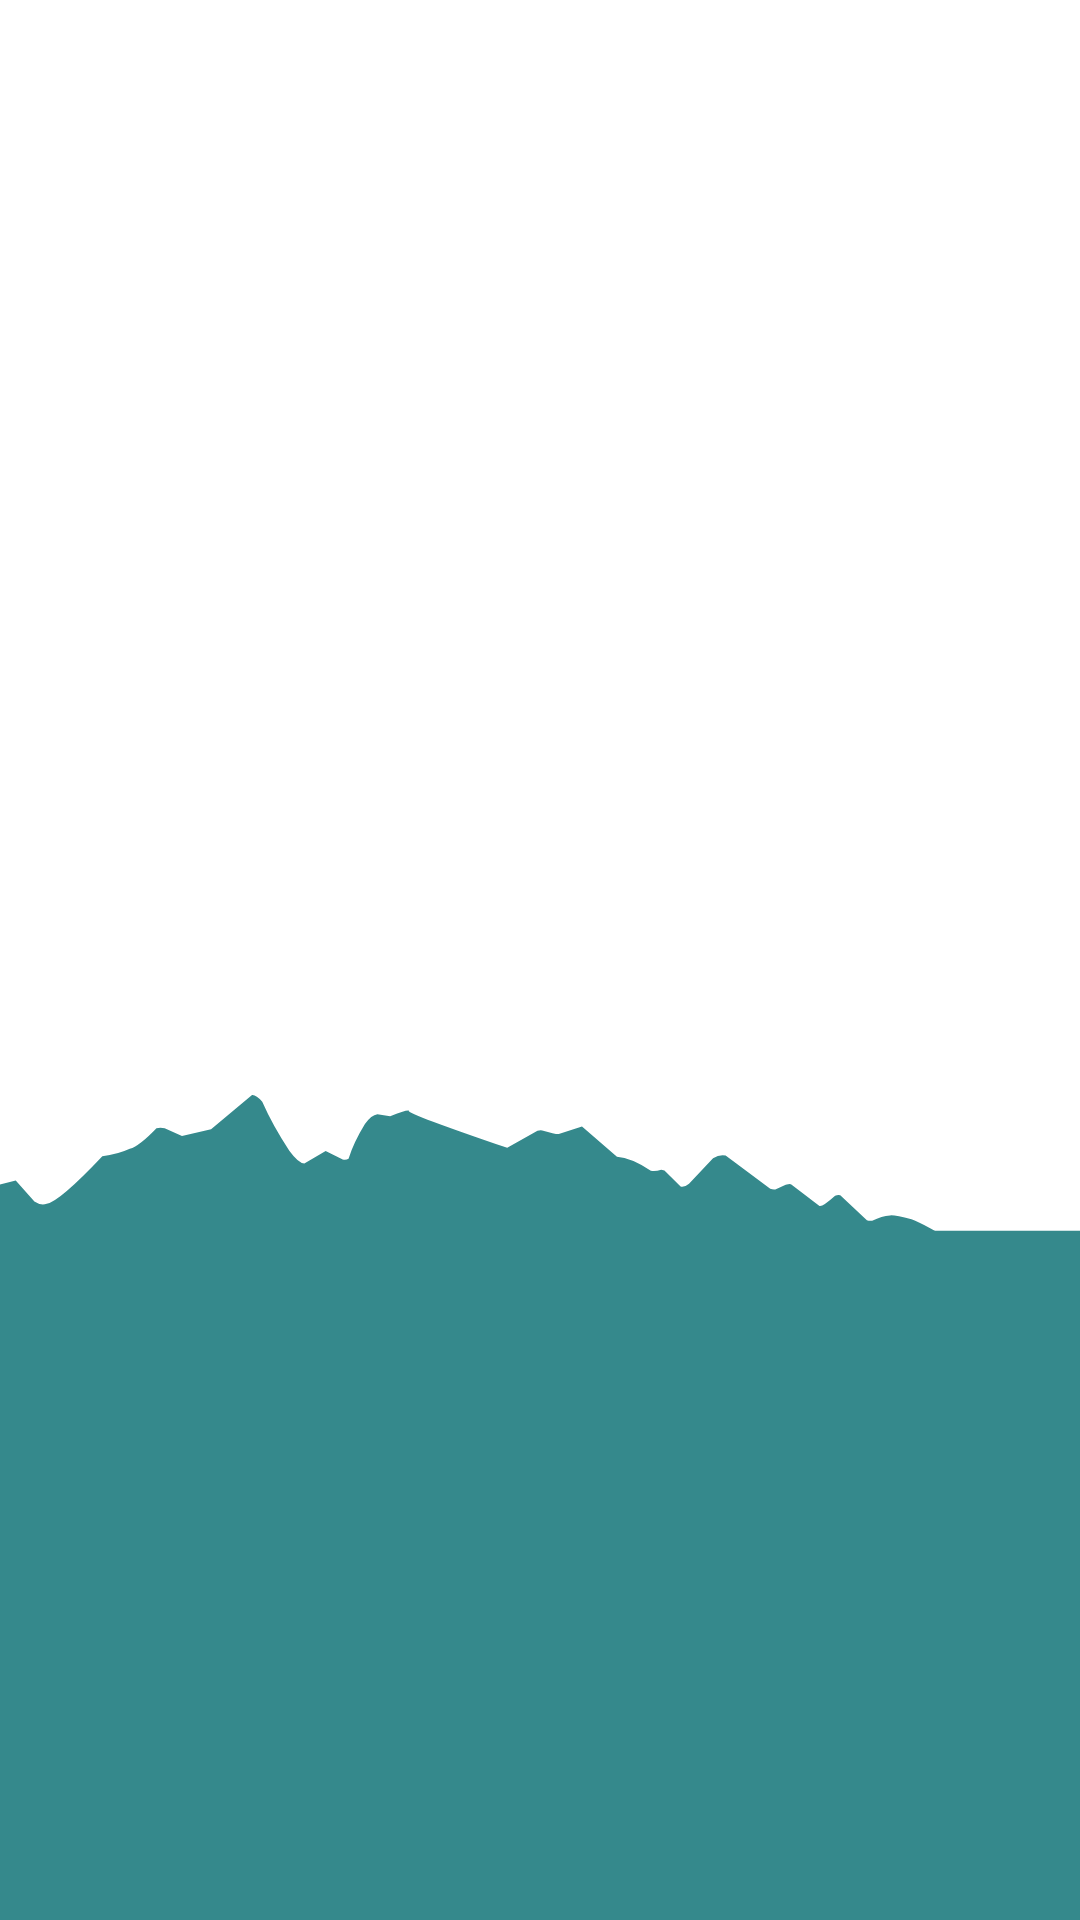
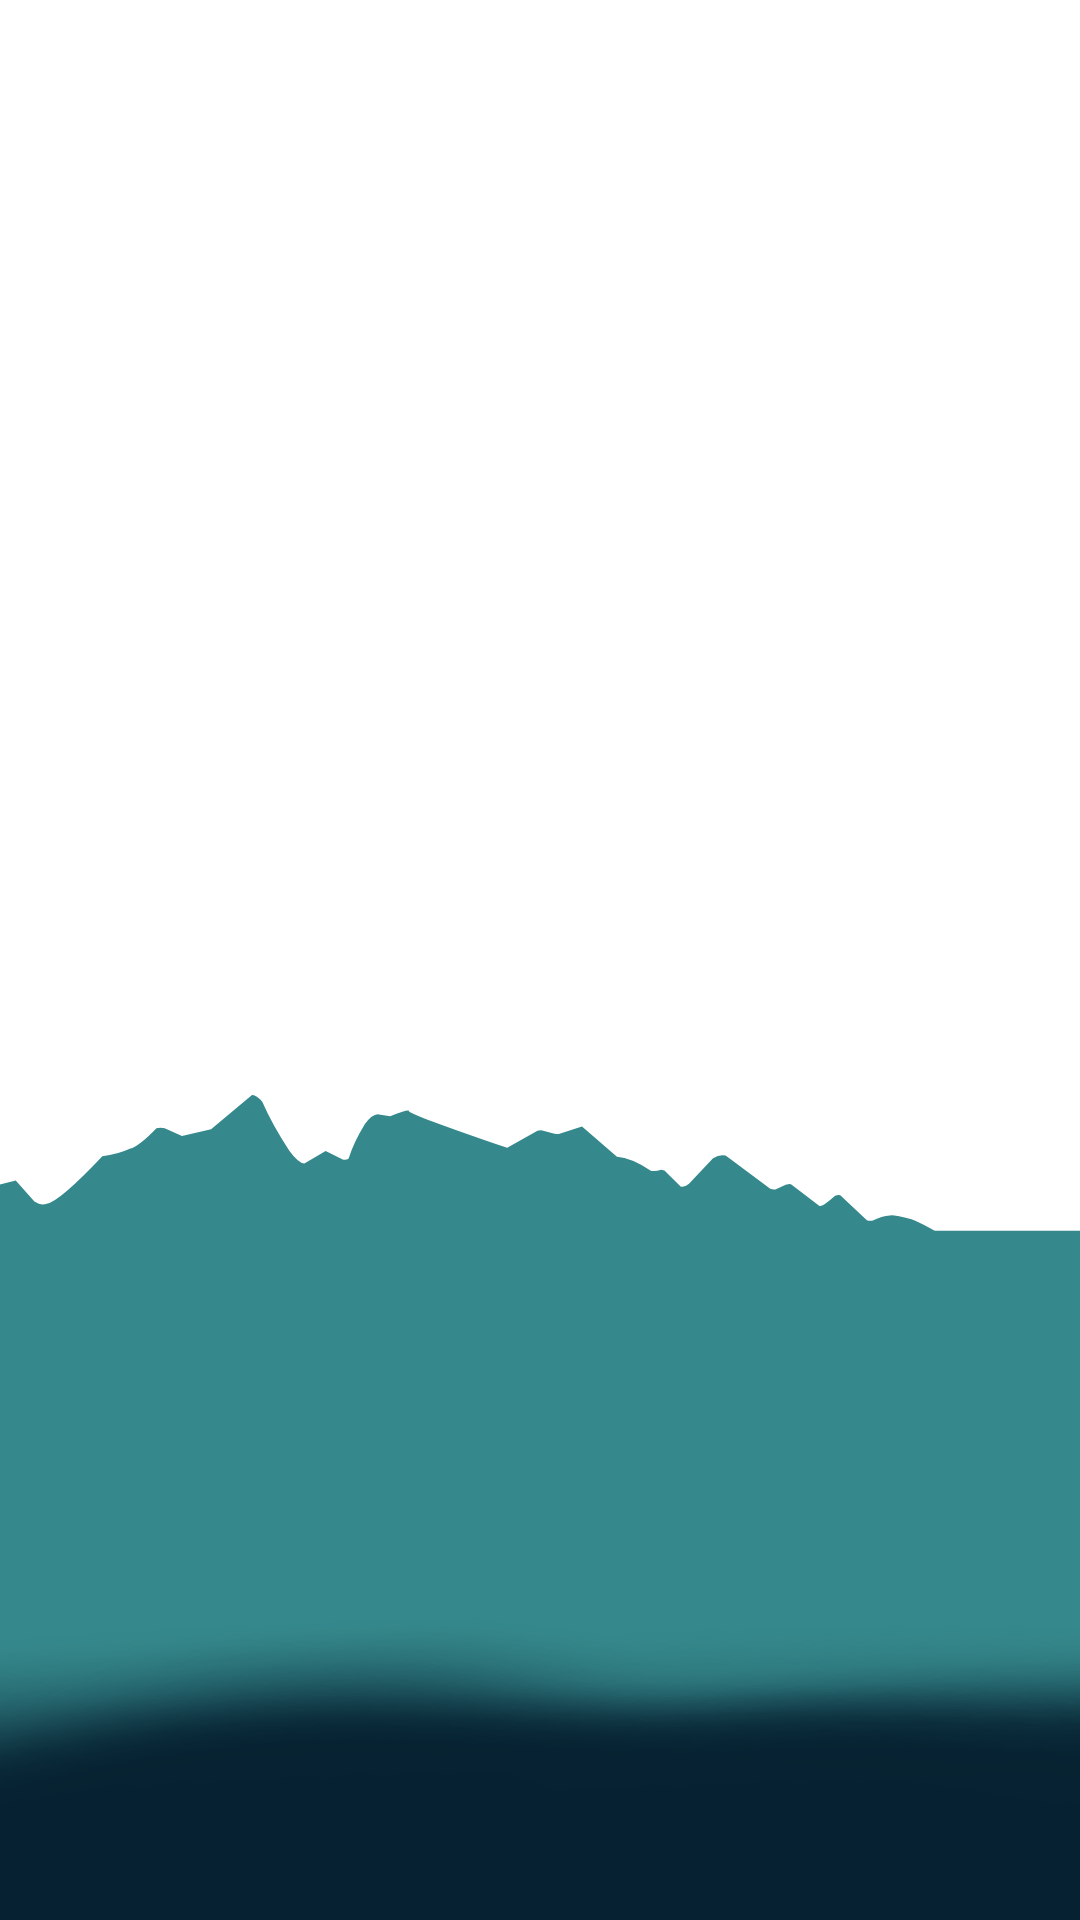
snow effect

Changed region(s): [[0.0, 0.8438, 1.0, 1.0]]

diff --git a/components/event/event-registration-form.tsx b/components/event/event-registration-form.tsx
@@ -10,8 +10,7 @@ import { Textarea } from "@/components/ui/textarea"
 import { Checkbox } from "@/components/ui/checkbox"
 import { Button } from "@/components/ui/button"
 import { Alert, AlertDescription } from "@/components/ui/alert"
-import { formatWon } from '@/lib/utils'
-import { cn } from '@/lib/utils'
+import { formatWon, cn } from "@/lib/utils"
 import { Badge } from "@/components/ui/badge"
 
 // Simple spinner component
@@ -28,7 +27,6 @@ function Spinner() {
 
 interface PesertaData {
   name: string
-  email: string
   phone: string
   address: string
   ukuranBaju: string
@@ -44,7 +42,6 @@ interface FormData {
 
 const initialPesertaData: PesertaData = {
   name: "",
-  email: "",
   phone: "",
   address: "",
   ukuranBaju: "",
@@ -119,9 +116,6 @@ export default function EventRegistrationForm() {
     const newErrors: {[key: string]: string} = {}
     
     formData.peserta.forEach((peserta, index) => {
-      if (!peserta.email.match(/^[^\s@]+@[^\s@]+\.[^\s@]+$/)) {
-        newErrors[`email_${index}`] = 'Format email ga valid, bro!'
-      }
       if (!peserta.phone.match(/^[0-9]{8,}$/)) {
         newErrors[`phone_${index}`] = 'Nomor telepon minimal 8 digit angka!'
       }
@@ -263,22 +257,6 @@ export default function EventRegistrationForm() {
                 />
                 {errors[`name_${index}`] && (
                   <p className="text-sm text-red-500">{errors[`name_${index}`]}</p>
-                )}
-              </div>
-
-              <div className="space-y-2">
-                <Label htmlFor={`email_${index}`}>Email</Label>
-                <Input
-                  type="email"
-                  id={`email_${index}`}
-                  placeholder="contoh: peserta@ex.com"
-                  value={peserta.email}
-                  onChange={(e) => handlePesertaChange(index, 'email', e.target.value)}
-                  required
-                  disabled={isLoading}
-                />
-                {errors[`email_${index}`] && (
-                  <p className="text-sm text-red-500">{errors[`email_${index}`]}</p>
                 )}
               </div>
 

diff --git a/components/auth/home-content.tsx b/components/auth/home-content.tsx
@@ -2,17 +2,17 @@ import { Background } from "./background";
 
 export const HeroContent = () => {
   return (
-    <div className="h-screen relative">
+    <div className="h-screen bg-gradient-to-b from-background to-secondary">
       <Background />
-      <div className="container relative mx-auto px-4 pt-12 md:pt-16">
-        <div className="text-center space-y-3 animate-fade-in">
+      <div className="container relative mx-auto px-4 pt-20 md:pt-16">
+        <div className="text-center space-y-0 animate-fade-in">
           <h1 className="bigfont text-6xl md:text-7xl font-bold animate-fade-down text-foreground/90">
             PJKR
           </h1>
-          <h2 className=" text-3xl md:text-4xl animate-fade-down text-foreground/90">
+          <h2 className=" text-2xl md:text-4xl font-bold animate-fade-down text-foreground/90">
             WINTER SPORTS 2025
           </h2>
-          <p className="text-lg animate-fade-down text-foreground/80">
+          <p className="text-sm animate-fade-down text-foreground/80">
             by Pejuangkorea
           </p>
         </div>
@@ -26,12 +26,12 @@ export const HeroContent = () => {
         </div>
       </div>
 
-      <div className="absolute bottom-20 md:bottom-24 left-0 right-0">
+      <div className="absolute bottom-10 md:bottom-24 left-0 right-0">
         <div className="text-center max-w-xl mx-auto space-y-4 animate-fade-up">
-          <h3 className="text-2xl md:text-3xl font-medium">
+          <h3 className="text-xl  md:text-3xl font-bold">
             Hai gais,
           </h3>
-          <p className="text-lg md:text-xl leading-relaxed">
+          <p className="text-sm md:text-xl leading-relaxed">
             Yuk gabung bareng kita seru-seruan
             <br />
             bermain ski dan snowboard saat musim dingin

diff --git a/components/dashboard/manage-peserta.tsx b/components/dashboard/manage-peserta.tsx
@@ -357,32 +357,6 @@ export function ManagePeserta() {
                             </div>
 
                             <div className="space-y-2">
-                              <Label>Ukuran Baju</Label>
-                              <Input
-                                value={editForm?.ukuranBaju || ""}
-                                onChange={(e) => setEditForm(prev => ({
-                                  ...prev!,
-                                  ukuranBaju: e.target.value
-                                }))}
-                                disabled={isLoading}
-                                placeholder="Contoh: S, M, L, XL, XXL"
-                              />
-                            </div>
-
-                            <div className="space-y-2">
-                              <Label>Ukuran Sepatu</Label>
-                              <Input
-                                value={editForm?.ukuranSepatu || ""}
-                                onChange={(e) => setEditForm(prev => ({
-                                  ...prev!,
-                                  ukuranSepatu: e.target.value
-                                }))}
-                                disabled={isLoading}
-                                placeholder="Contoh: 40, 41, 42"
-                              />
-                            </div>
-
-                            <div className="space-y-2">
                               <Label>Bus</Label>
                               <Select
                                 value={editForm?.busId || "no_bus"}

diff --git a/app/actions/event-registration.ts b/app/actions/event-registration.ts
@@ -4,7 +4,6 @@ import { db } from "@/lib/db"
 
 interface PesertaData {
   name: string
-  email: string
   phone: string
   address: string
   ukuranBaju: string
@@ -158,9 +157,9 @@ export async function registerEvent(data: EventRegistrationData) {
 
     // Proses setiap peserta
     for (const p of peserta) {
-      // Cek apakah email sudah terdaftar
-      let user = await db.user.findUnique({
-        where: { email: p.email }
+      // Cek apakah nomor telepon sudah terdaftar
+      let user = await db.user.findFirst({
+        where: { telepon: p.phone }
       })
 
       if (user) {
@@ -169,7 +168,6 @@ export async function registerEvent(data: EventRegistrationData) {
           where: { id: user.id },
           data: {
             name: p.name,
-            telepon: p.phone,
             alamat: p.address,
             ukuranBaju: p.ukuranBaju,
             ukuranSepatu: p.ukuranSepatu,
@@ -180,8 +178,10 @@ export async function registerEvent(data: EventRegistrationData) {
         // Buat user baru
         user = await db.user.create({
           data: {
-            email: p.email,
             name: p.name,
+            // Prisma mengharuskan field email didefinisikan meskipun optional di schema
+            // Menggunakan string kosong sebagai nilai default untuk memenuhi tipe UserCreateInput
+            email: "",
             telepon: p.phone,
             alamat: p.address,
             ukuranBaju: p.ukuranBaju,

diff --git a/components/auth/background.tsx b/components/auth/background.tsx
@@ -1,6 +1,7 @@
 "use client";
 import Image from 'next/image';
 import { useEffect, useState } from 'react';
+import Snowfall from 'react-snowfall';
 
 export const Background = () => {
   const [scrollPosition, setScrollPosition] = useState(0);
@@ -24,7 +25,7 @@ export const Background = () => {
   }, []);
 
   return (
-    <div className="fixed inset-0 -z-10 w-screen h-screen overflow-hidden">
+    <div className="fixed inset-0 -z-1 w-screen h-screen overflow-hidden">
       {/* Layer 5 */}
       <div
         className="absolute inset-0 w-full h-full"
@@ -79,6 +80,28 @@ export const Background = () => {
           sizes="100vw"
           className="object-cover object-bottom"
           priority
+        />
+      </div>
+
+      {/* Snowfall Layer */}
+      <div 
+        className="absolute inset-0 w-full h-full"
+        style={{ 
+          transform: `translateY(${-scrollPosition * 0.6}px)`,
+          willChange: 'transform'
+        }}
+      >
+        <Snowfall
+          snowflakeCount={150}
+          radius={[0.5, 2.0]}
+          speed={[0.5, 2.0]}
+          wind={[-0.5, 1.0]}
+          color="#fff"
+          style={{
+            position: 'absolute',
+            width: '100%',
+            height: '100%'
+          }}
         />
       </div>
 

diff --git a/components/auth/cta-content.tsx b/components/auth/cta-content.tsx
@@ -55,7 +55,7 @@ export function CTAContent() {
       </div>
       
       {/* Registration Button */}
-      <Link href="/auth/register" className="w-full max-w-md mx-auto px-4">
+      <Link href="/event-registration" className="w-full max-w-md mx-auto px-4">
         <Button className="w-full bg-[#15BFFD] hover:bg-[#15BFFD]/90 text-white text-xl py-6">
           DAFTAR EVENT WINTER SPORT
         </Button>
